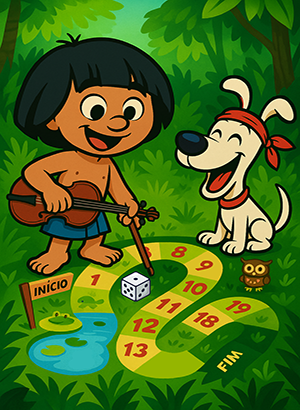
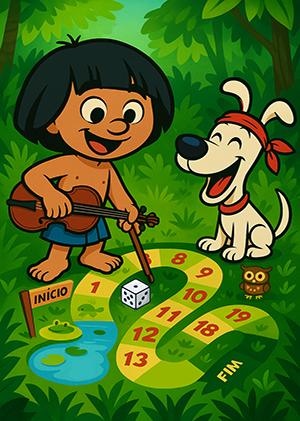
carousel

diff --git a/index.html b/index.html
@@ -71,7 +71,7 @@
 
       <div class="carousel" id="carousel">
         <div class="carousel-item">
-          <img src="imagens/img-carousel/aipim.png" alt="Hogwarts" />
+          <img src="imagens/img-carousel/jogos.png" alt="Imagem jogos" />
           <p>Jogos</p>
         </div>
         <div class="carousel-item">
